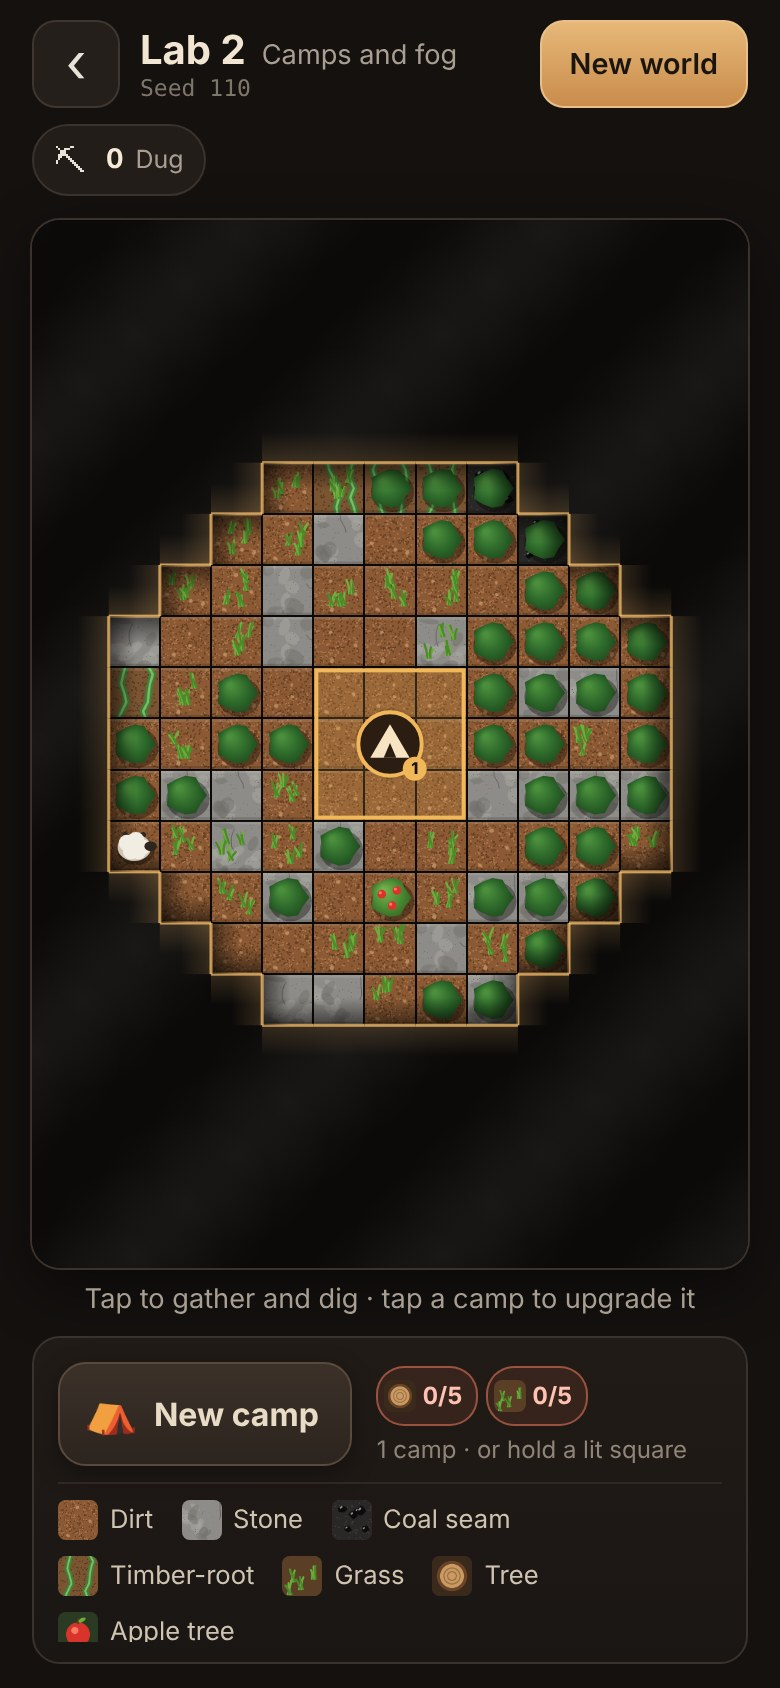
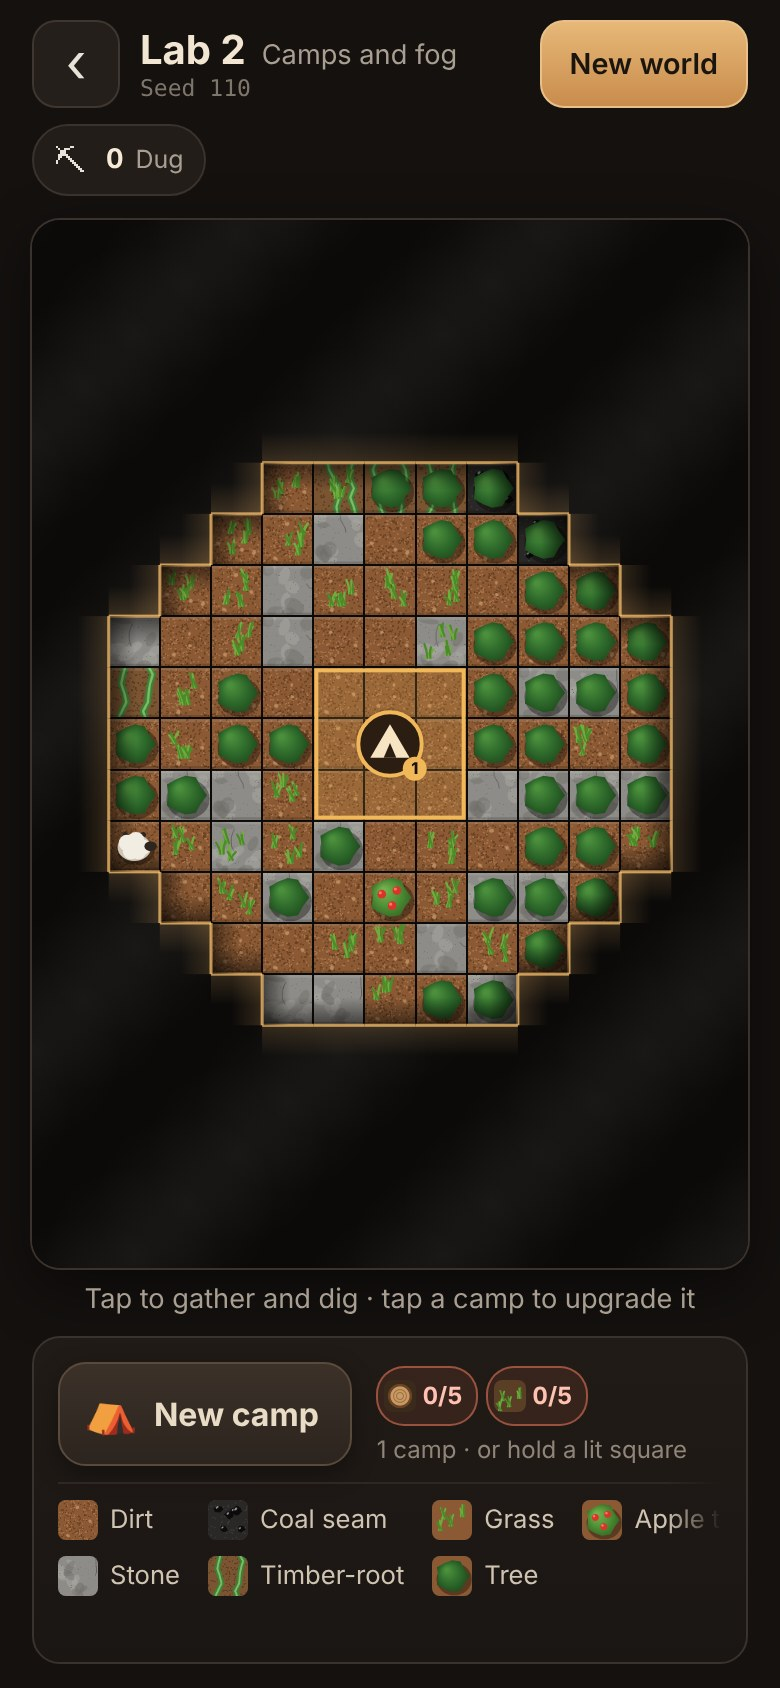
Lab 2: fit the key in the tray; draw its features with the map's art
Review of PR #122. With grass, trees and apple trees added, the key under
the map could need a third row, and the tray's fixed height cut it in
half. The key is now two rows filled column by column that scroll
sideways, with the right edge fading like the counter's, so no entry is
ever clipped. A new e2e test checks, on seed 110 (seven kinds in sight),
that the key's scroll height is no more than its client height and that
every entry lies inside it; it fails on the old layout (84 > 79).

The key's grass, tree and apple-tree swatches now use the map's own art,
so they match what the map shows.

Claude-Session: https://claude.ai/code/session_013qbeeYRuiqGUrErSzN4qt9

Changed region(s): [[0.0615, 0.8626, 0.7077, 0.9858], [0.7385, 0.8626, 0.8, 0.9242], [0.8308, 0.8934, 0.8923, 0.9242]]

diff --git a/src/app/lab/campScreen.ts b/src/app/lab/campScreen.ts
@@ -71,6 +71,7 @@ import {
   drawAppleTree,
   drawGrass,
   drawTree,
+  featureSwatch,
   labItemIcon,
 } from './surfaceArt';
 import { resourceEntries } from './resources';
@@ -858,14 +859,27 @@ export function mountCampLab(root: HTMLElement, seed: number | null, onBack: () 
     const seenFeatures = new Set(
       world.surface.features.filter((_, i) => (sights[i] ?? 'fog') !== 'fog'),
     );
-    const extras: { show: boolean; icon: string; name: string }[] = [
-      { show: clayInSight, icon: 'clay', name: 'Clay' },
-      { show: seenFeatures.has(GRASS), icon: 'grass', name: 'Grass' },
-      { show: seenFeatures.has(TREE), icon: 'wood', name: 'Tree' },
-      { show: seenFeatures.has(APPLE_TREE), icon: 'apple', name: 'Apple tree' },
+    // Clay's swatch is its texture; the features' are drawn with the map's own art.
+    const extras: { show: boolean; swatch: () => HTMLCanvasElement | null; name: string }[] = [
+      { show: clayInSight, swatch: () => labItemIcon('clay', 'lab-key-icon'), name: 'Clay' },
+      {
+        show: seenFeatures.has(GRASS),
+        swatch: () => featureSwatch('grass', 'lab-key-icon'),
+        name: 'Grass',
+      },
+      {
+        show: seenFeatures.has(TREE),
+        swatch: () => featureSwatch('tree', 'lab-key-icon'),
+        name: 'Tree',
+      },
+      {
+        show: seenFeatures.has(APPLE_TREE),
+        swatch: () => featureSwatch('appleTree', 'lab-key-icon'),
+        name: 'Apple tree',
+      },
     ];
     for (const extra of extras) {
-      const icon = extra.show ? labItemIcon(extra.icon, 'lab-key-icon') : null;
+      const icon = extra.show ? extra.swatch() : null;
       if (icon !== null) {
         const entry = element('span', 'lab-key-entry');
         entry.append(icon, element('span', 'lab-key-name', extra.name));

diff --git a/tests/e2e/lab2.spec.ts b/tests/e2e/lab2.spec.ts
@@ -176,6 +176,26 @@ test('the start screen leads to lab 2, which opens in fog round one camp', async
   await expect(page.getByTestId('launch-lab1')).toBeVisible();
 });
 
+test('the key fits the tray: no entry is cut by its fixed height', async ({ page }) => {
+  // Review of PR #122: with the surface's kinds added, a third row of the key
+  // was cut in half by the tray. Seed 110 opens with seven kinds in sight.
+  await openLab2(page);
+  const key = page.getByTestId('lab2-tray').locator('.lab-key');
+  await expect(key.locator('.lab-key-entry')).toHaveCount(7);
+  const fit = await key.evaluate((el) => {
+    const box = el.getBoundingClientRect();
+    const entries = Array.from(el.children).map((child) => child.getBoundingClientRect());
+    return {
+      scrollHeight: el.scrollHeight,
+      clientHeight: el.clientHeight,
+      // Every entry lies fully inside the key, top to bottom.
+      inside: entries.every((e) => e.top >= box.top - 0.5 && e.bottom <= box.bottom + 0.5),
+    };
+  });
+  expect(fit.scrollHeight).toBeLessThanOrEqual(fit.clientHeight);
+  expect(fit.inside).toBe(true);
+});
+
 test('a tap inside the ring takes or mines; a tap in the fog does nothing', async ({ page }) => {
   const canvas = await openLab2(page);
   let world = newCampWorld(SEED);

diff --git a/src/app/lab/lab.css b/src/app/lab/lab.css
@@ -366,20 +366,27 @@ body[data-screen='lab2'] {
 }
 
 .lab2-tray .lab-key {
-  /* Inside the tray the key needs no box of its own, and may take two rows. */
-  flex: 1 1 auto;
-  height: auto;
-  min-height: 0;
-  flex-wrap: wrap;
-  align-content: flex-start;
+  /* Inside the tray the key needs no box of its own. It takes two rows, filled
+     column by column, and scrolls sideways when there are more kinds than fit,
+     so an entry is never cut in half by the tray's fixed height (review of
+     PR #122). The right edge fades, as the counter's does. */
+  flex: 0 0 auto;
+  display: grid;
+  grid-auto-flow: column;
+  grid-template-rows: repeat(2, 20px);
+  grid-auto-columns: max-content;
+  column-gap: 14px;
   row-gap: 8px;
-  overflow-x: hidden;
-  overflow-y: auto;
-  padding: 8px 0 0;
+  height: 48px;
+  overflow-x: auto;
+  overflow-y: hidden;
+  padding: 8px 24px 0 0;
   border: 0;
   border-top: 1px solid #2e2722;
   border-radius: 0;
   background: transparent;
+  mask-image: linear-gradient(to right, #000 calc(100% - 28px), transparent);
+  -webkit-mask-image: linear-gradient(to right, #000 calc(100% - 28px), transparent);
 }
 
 .lab2-tray-head {

diff --git a/src/app/lab/surfaceArt.ts b/src/app/lab/surfaceArt.ts
@@ -309,3 +309,29 @@ export function labItemIcon(item: string, className: string): HTMLCanvasElement 
   }
   return icon;
 }
+
+/**
+ * A key swatch for a surface feature, drawn with the map's own art on bare
+ * dirt, so the key matches what the map shows: 'grass', 'tree' or
+ * 'appleTree' (review of PR #122).
+ */
+export function featureSwatch(
+  kind: 'grass' | 'tree' | 'appleTree',
+  className: string,
+): HTMLCanvasElement {
+  const s = LAB_LOOK.texturePx;
+  const swatch = document.createElement('canvas');
+  swatch.className = className;
+  swatch.width = s;
+  swatch.height = s;
+  const ctx = swatch.getContext('2d');
+  if (ctx !== null) {
+    ctx.fillStyle = '#8b5a34'; // the dirt the features stand on
+    ctx.fillRect(0, 0, s, s);
+    const box = { left: 0, top: 0, inner: s };
+    if (kind === 'grass') drawGrass(ctx, box, 3, 5);
+    else if (kind === 'tree') drawTree(ctx, box);
+    else drawAppleTree(ctx, box, 3);
+  }
+  return swatch;
+}
